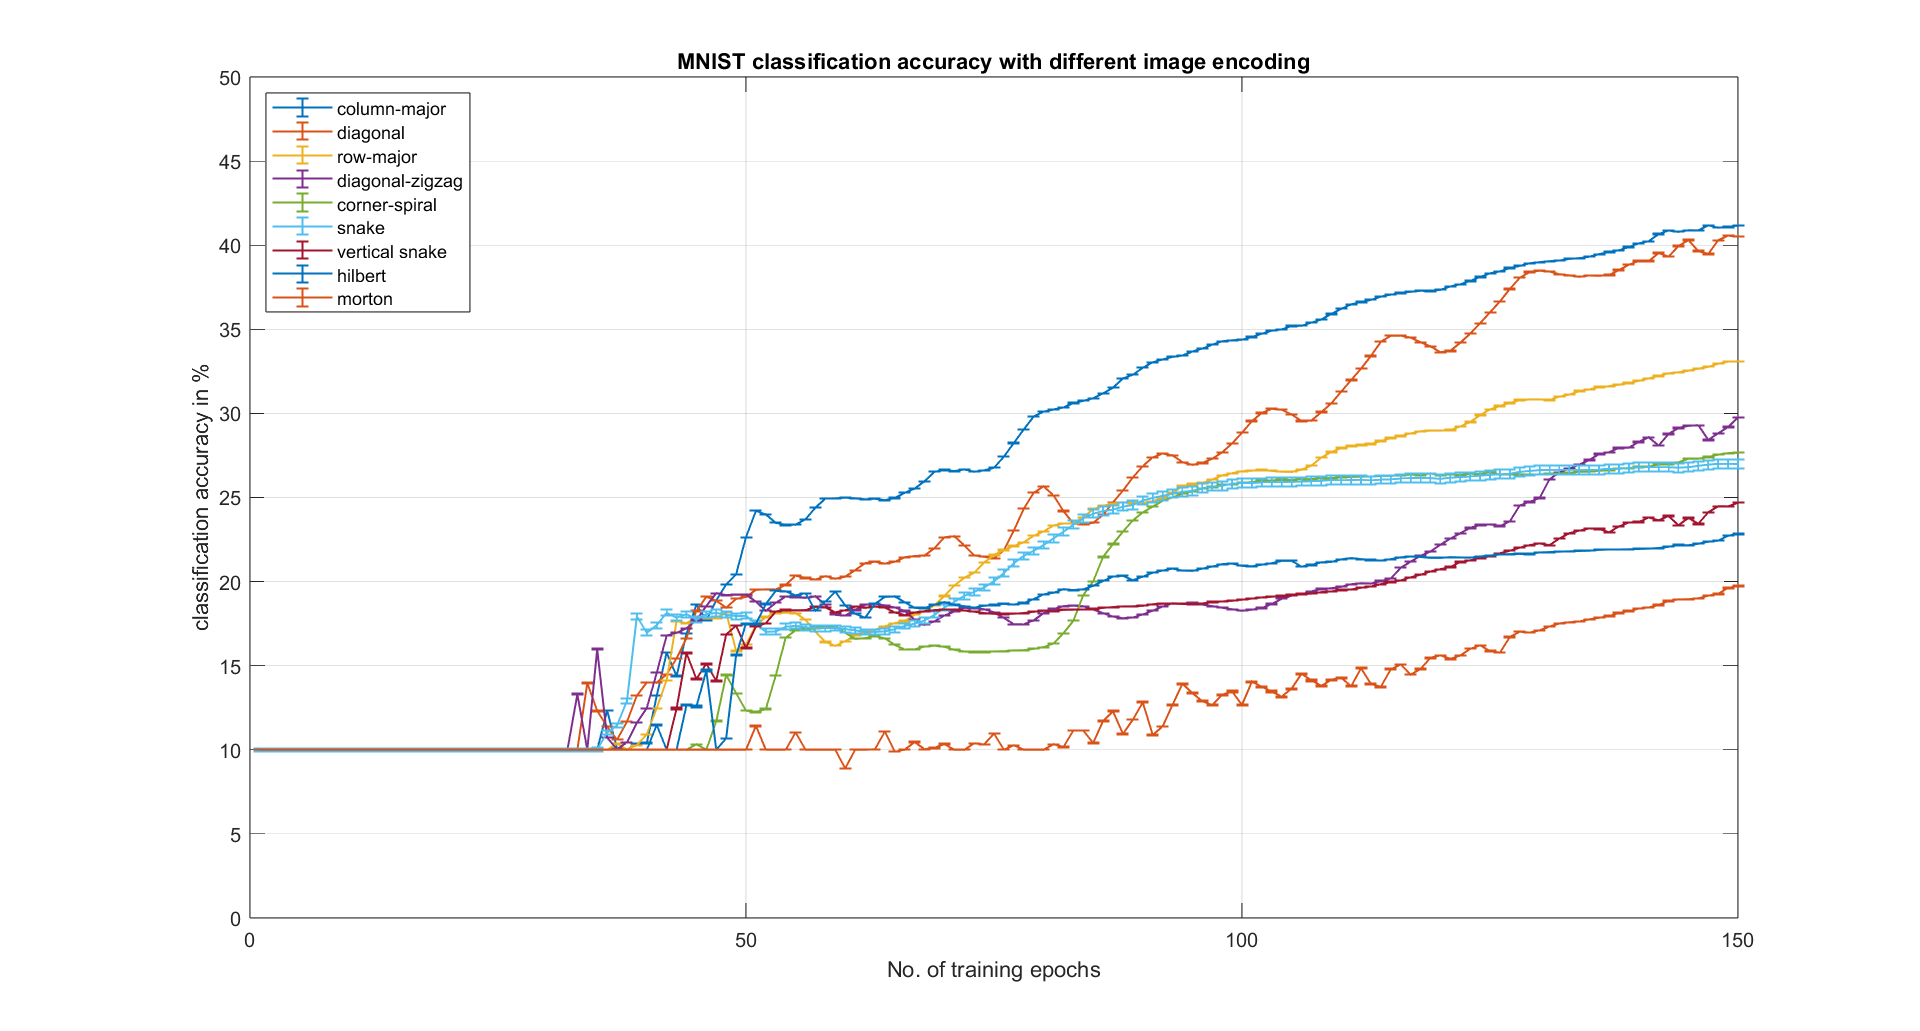
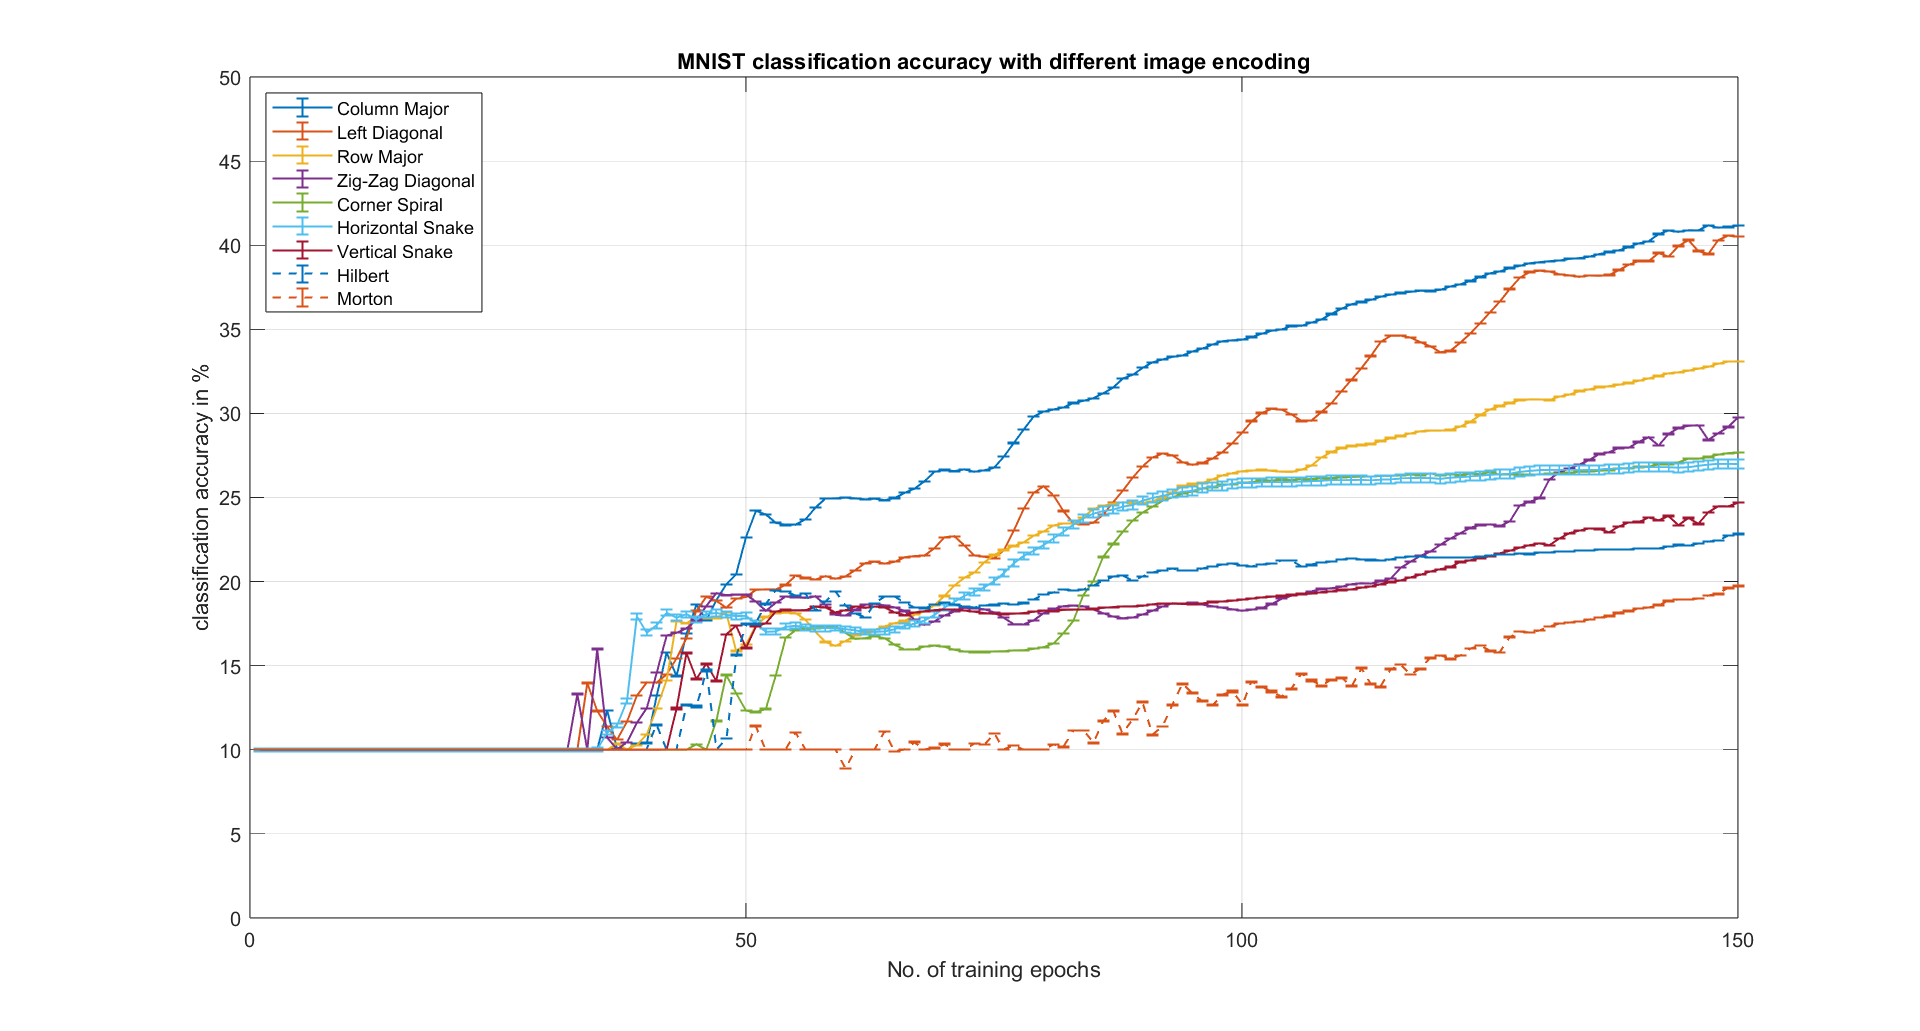
improved plot legibility

Changed region(s): [[0.1562, 0.0931, 0.25, 0.2793], [0.5625, 0.6828, 0.5938, 0.7139]]

diff --git a/MATLAB_plots/QMLProject_Plots.m b/MATLAB_plots/QMLProject_Plots.m
@@ -123,11 +123,11 @@ eb4 = errorbar((1:no_trainEpochs),diag_zigzag_data(:,1),diag_zigzag_data(:,2)/10
 eb5 = errorbar((1:no_trainEpochs),cor_spiral_data(:,1),cor_spiral_data(:,2)/100,'LineWidth',1);
 eb6 = errorbar((1:no_trainEpochs),snake_data(:,1),snake_data(:,1)/100,'LineWidth',1);
 eb7 = errorbar((1:no_trainEpochs),snake_vert_data(:,1),snake_vert_data(:,2)/100,'LineWidth',1);
-eb8 = errorbar((1:no_trainEpochs),hilb_data(:,1),hilb_data(:,2)/100,'LineWidth',1);
-eb9 = errorbar((1:no_trainEpochs),mort_data(:,1),mort_data(:,2)/100,'LineWidth',1);
+eb8 = errorbar((1:no_trainEpochs),hilb_data(:,1),hilb_data(:,2)/100,'LineWidth',1,'LineStyle','--');
+eb9 = errorbar((1:no_trainEpochs),mort_data(:,1),mort_data(:,2)/100,'LineWidth',1,'LineStyle','--');
 hold off
 title('MNIST classification accuracy with different image encoding');
-legend('column-major','diagonal','row-major','diagonal-zigzag','corner-spiral','snake','vertical snake','hilbert','morton','Location','northwest');
+legend('Column Major','Left Diagonal','Row Major','Zig-Zag Diagonal','Corner Spiral','Horizontal Snake','Vertical Snake','Hilbert','Morton','Location','northwest');
 xlabel('No. of training epochs');
 ylabel('classification accuracy in %');
 ylim([0, 50]);
@@ -144,11 +144,11 @@ plt4 = plot((1:no_trainEpochs),diag_zigzag_data(:,1),'LineWidth',1);
 plt5 = plot((1:no_trainEpochs),cor_spiral_data(:,1),'LineWidth',1);
 plt6 = plot((1:no_trainEpochs),snake_data(:,1),'LineWidth',1);
 plt7 = plot((1:no_trainEpochs),snake_vert_data(:,1),'LineWidth',1);
-plt8 = plot((1:no_trainEpochs),hilb_data(:,1),'LineWidth',1);
-plt9 = plot((1:no_trainEpochs),mort_data(:,1),'LineWidth',1);
+plt8 = plot((1:no_trainEpochs),hilb_data(:,1),'LineWidth',1,'LineStyle','--');
+plt9 = plot((1:no_trainEpochs),mort_data(:,1),'LineWidth',1,'LineStyle','--');
 hold off
 title('MNIST classification accuracy with different image encoding');
-legend('column-major','diagonal','row-major','diagonal-zigzag','corner-spiral','snake','vertical snake','hilbert','morton','Location','northwest');
+legend('Column Major','Left Diagonal','Row Major','Zig-Zag Diagonal','Corner Spiral','Horizontal Snake','Vertical Snake','Hilbert','Morton','Location','northwest');
 xlabel('No. of training epochs');
 ylabel('classification accuracy in %');
 ylim([0, 50]);
